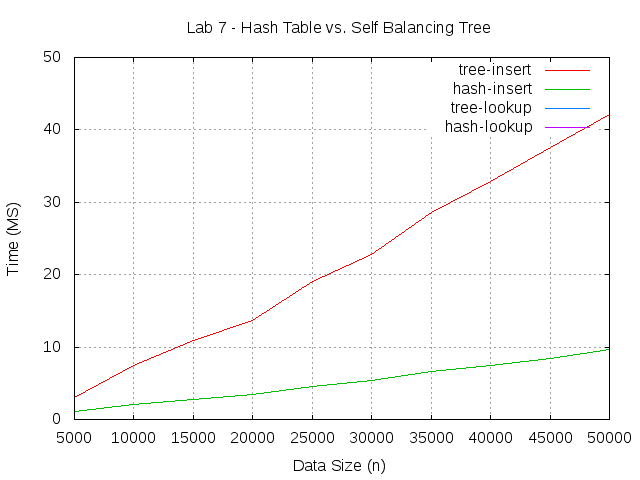
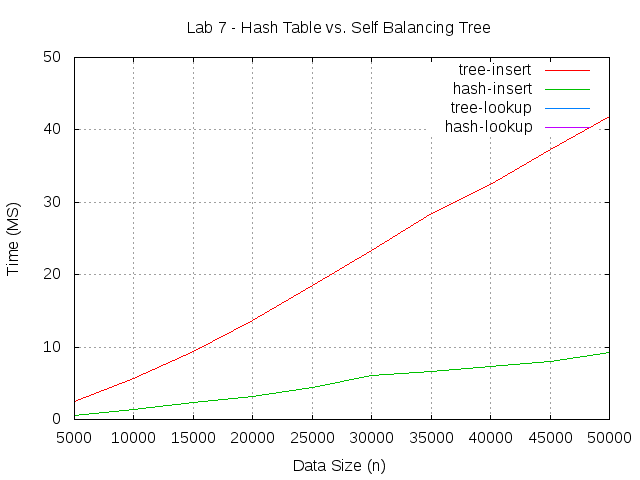
New Data

diff --git a/lab07/main.cc b/lab07/main.cc
@@ -61,9 +61,17 @@ int main() {
     set<string> tree;
     unordered_set<string> hash;
     vector<string> word_bank;
+    vector<string>::iterator it;
     fstream inFS;
     
+    clock_t runtime;
+    clock_t ticks;
+    float Ftime = 0.0;
+    
     runData r;
+    
+    inFS.open("output.txt", ios::out | ios::trunc);
+    inFS.close();
     
     inFS.open("words.txt"); // Reading in file to vector then shuffling it
     if (!inFS.is_open()) {
@@ -79,49 +87,54 @@ int main() {
     
     // int n = 0;
     // cout << "Enter your value of n: "; cin >> n;
-    clock_t runtime;
     for (int n = 5000; n <= 50000; n += 5000) {
         random_shuffle(word_bank.begin(), word_bank.end());
         for (int i = 0; i < 10; ++i) {
             tree.clear();
             hash.clear();
             
-            runtime = clock(); // Clocking tree insertion time
-            for (int i = 0; i < n; ++i) { // Insertion time
-                tree.insert(word_bank.at(i));
+            /*----------Clocking Tree insertion time----------*/
+            runtime = clock();
+            for (int i = 0; i < n; ++i) {
+                tree.insert(word_bank.at(i)); // Using *it to avoid lookup in vector time.
             }
-            clock_t treeClicks = clock() - runtime;
-            r.treeIns.push_back((static_cast<float>(treeClicks) / CLOCKS_PER_SEC)*1000);
+            ticks = clock() - runtime;
+            r.treeIns.push_back((static_cast<float>(ticks) / CLOCKS_PER_SEC)*1000);
+            /*----------Clocking Tree insertion time----------*/
             
-            float Ftime = 0.0; // Clocking tree find time
+            /*----------Clocking tree find time----------*/
+            Ftime = 0.0;
+            ticks = 0;
             for (int i = 0; i < n; ++i) { 
                 runtime = clock();
                 tree.find(word_bank.at(i));
-                treeClicks = clock() - runtime;
-                Ftime += (static_cast<float>(treeClicks)/CLOCKS_PER_SEC)*1000;
+                ticks += clock() - runtime;
             }
-            //cout << "DEBUG - Tree Ftime: " << Ftime << endl;
+            Ftime = (static_cast<float>(ticks)/CLOCKS_PER_SEC)*1000;
             r.treeFind.push_back(Ftime / n);
+            /*----------Clocking tree find time----------*/
             
+            /*----------Clocking Hash insertion time----------*/
+            ticks = 0;
             runtime = clock();
             for (int i = 0; i < n; ++i) {
                 hash.insert(word_bank.at(i));
             }
-            clock_t hashClicks = clock() - runtime;
-            r.hashIns.push_back((static_cast<float>(hashClicks) / CLOCKS_PER_SEC)*1000);
+            ticks += clock() - runtime;
+            r.hashIns.push_back((static_cast<float>(ticks) / CLOCKS_PER_SEC)*1000);
+            /*----------Clocking Hash insertion time----------*/
             
+            /*----------Clocking Hash Find Time----------*/
             Ftime = 0.0;
+            ticks = 0;
             for (int i = 0; i < n; ++i) { 
                 runtime = clock();
                 hash.find(word_bank.at(i));
-                hashClicks = clock() - runtime;
-                Ftime += (static_cast<float>(hashClicks) / CLOCKS_PER_SEC)*1000;
+                ticks += clock() - runtime;
             }
-            // cout << "Hash Ftime: " << Ftime << endl;
+            Ftime = (static_cast<float>(ticks) / CLOCKS_PER_SEC)*1000;
             r.hashFind.push_back(Ftime / n);
-            // char cont;
-            // cout << "Continue (y/n)? "; cin >> cont;
-            // if (cont != 'y') exit(0);
+            /*----------Clocking Hash Find Time----------*/
         }
         r.dumpData("output.txt", n);
     }
